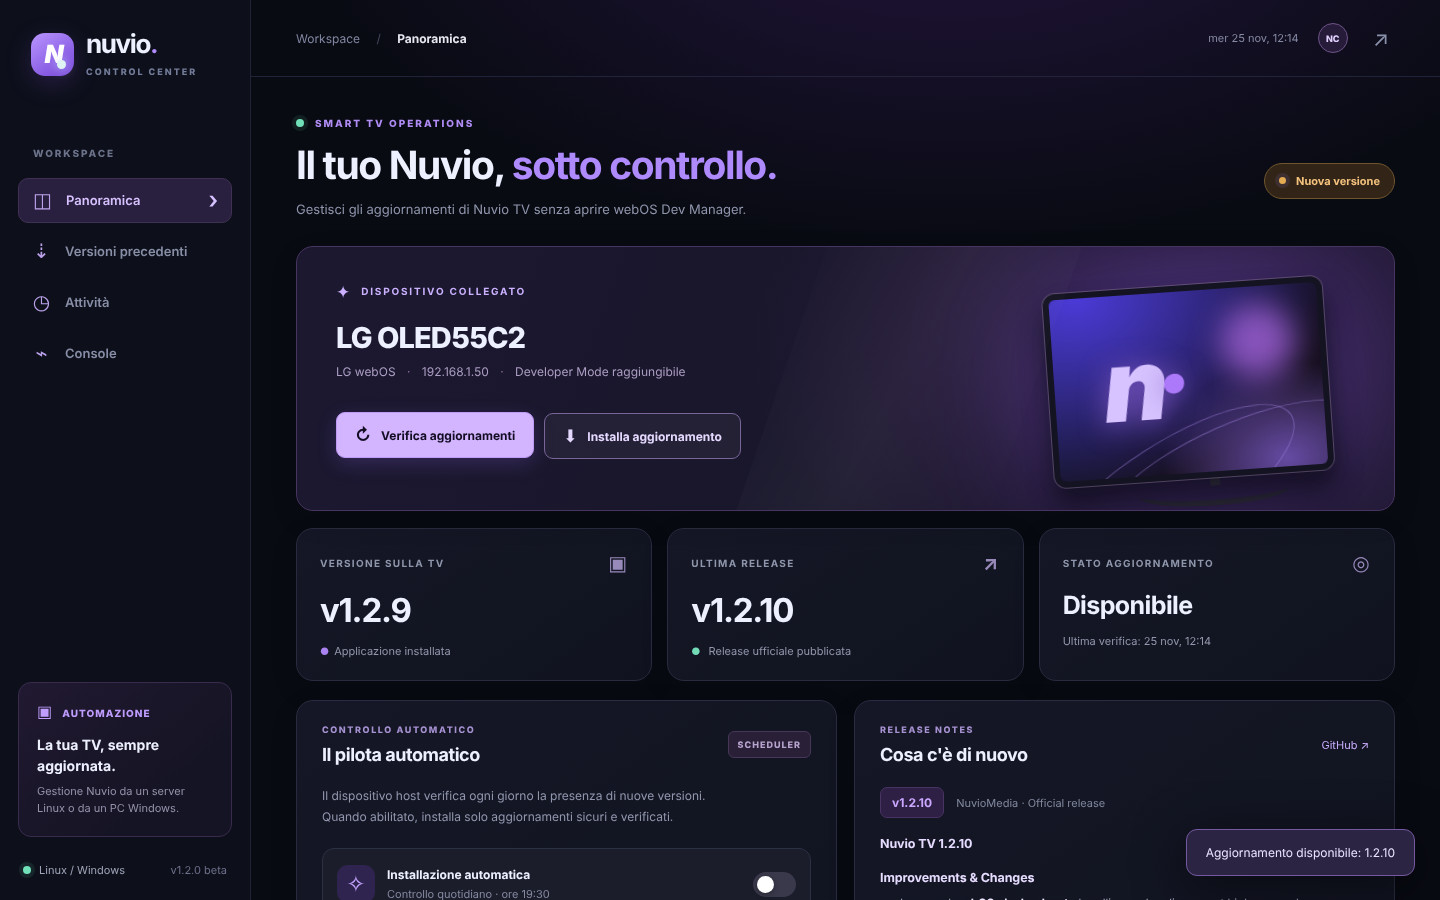
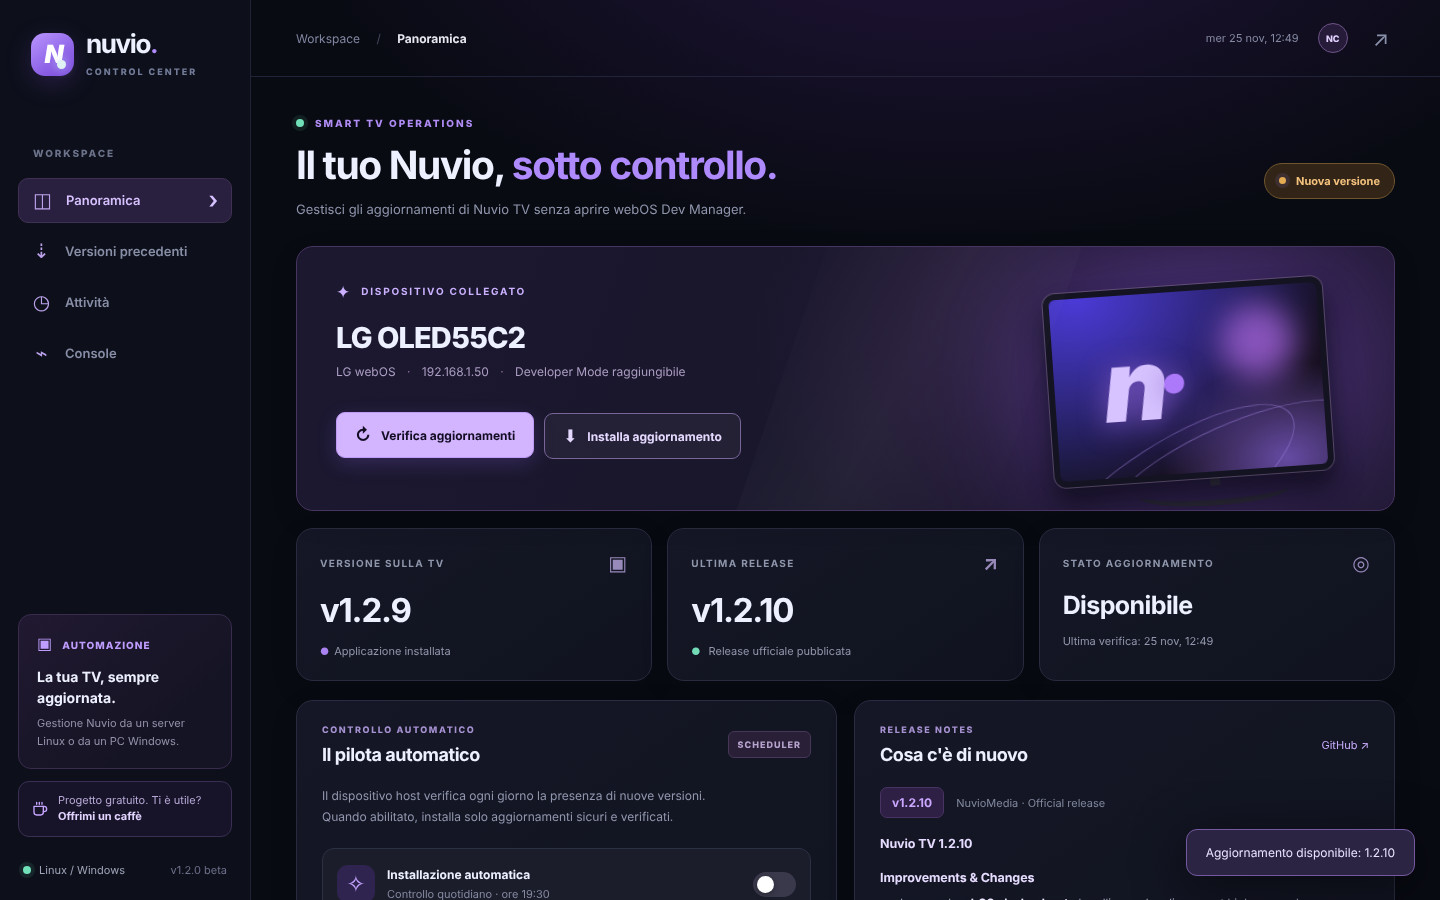
Make voluntary support more visible: dashboard, installers, releases, issues
- Dashboard: discreet Ko-fi card under the sidebar panel and a footer link
- Linux and Windows installers print the Ko-fi link at the end
- Release notes start with a support line; issue chooser lists Ko-fi
- README: support callout after the quick starts; screenshots refreshed

Claude-Session: https://claude.ai/code/session_01KBUAtK3HWagceCcF7kxorD

Changed region(s): [[0.0, 0.7156, 0.125, 0.9333], [0.8438, 0.0311, 0.9062, 0.0622]]

diff --git a/web/dashboard.html b/web/dashboard.html
@@ -8,7 +8,7 @@
   <a class="nav-item" href="#versions" data-section="versions"><span class="nav-symbol">⇣</span> Versioni precedenti</a>
   <a class="nav-item" href="#activity" data-section="activity"><span class="nav-symbol">◷</span> Attività</a>
   <a class="nav-item" href="#console" data-section="console"><span class="nav-symbol">⌁</span> Console</a>
-  <div class="side-bottom"><div class="side-panel"><div class="side-panel-header"><span class="mini-icon">▣</span> AUTOMAZIONE</div><strong>La tua TV, sempre aggiornata.</strong><p>Gestione Nuvio da un server Linux o da un PC Windows.</p></div><div class="side-footer"><span class="dot-online"></span> Linux / Windows <span class="muted">v1.2.0 beta</span></div></div>
+  <div class="side-bottom"><div class="side-panel"><div class="side-panel-header"><span class="mini-icon">▣</span> AUTOMAZIONE</div><strong>La tua TV, sempre aggiornata.</strong><p>Gestione Nuvio da un server Linux o da un PC Windows.</p></div><a class="side-support" href="https://ko-fi.com/lucairr" target="_blank" rel="noopener noreferrer"><svg width="16" height="16" viewBox="0 0 24 24" fill="none" stroke="currentColor" stroke-width="2" stroke-linecap="round" stroke-linejoin="round" aria-hidden="true"><path d="M17 8h1a4 4 0 0 1 0 8h-1"></path><path d="M3 8h14v9a4 4 0 0 1-4 4H7a4 4 0 0 1-4-4Z"></path><path d="M7 2v3M11 2v3M15 2v3"></path></svg><span>Progetto gratuito. Ti è utile? <b>Offrimi un caffè</b></span></a><div class="side-footer"><span class="dot-online"></span> Linux / Windows <span class="muted">v1.2.0 beta</span></div></div>
 </aside>
 <main class="main">
   <header class="topbar"><div class="crumb">Workspace <span>/</span> <b>Panoramica</b></div><div class="top-right"><span class="today" id="clock">—</span><span class="profile-dot">NC</span><button id="logout" class="icon-btn" title="Esci">↗</button></div></header>
@@ -54,7 +54,7 @@
     </section>
     <section class="panel timeline" id="activity"><div class="panel-header"><div><div class="small-overline">EVENTI RECENTI</div><h2>Cronologia attività</h2></div><span class="small-chip">ULTIMI 30</span></div><div class="activity-list" id="activity-list"><div class="empty">Nessuna operazione eseguita.</div></div></section>
     <section class="panel advanced" id="console"><div class="panel-header"><div><div class="small-overline">DIAGNOSTICA</div><h2>Console e comandi</h2></div><span class="small-chip">LIVE LOGS</span></div><div class="advanced-top"><div><strong>Reinstallazione manuale</strong><p>Reinstalla l'IPK ufficiale più recente anche se la versione installata è già aggiornata. Non disinstalla l'app.</p></div><button class="danger-btn" id="force-btn">Forza installazione ↗</button></div><div class="console-box"><div class="console-head"><span class="term-dots"><i></i><i></i><i></i></span><span>nuvio-updater / system.log</span><span class="console-live">● LIVE</span></div><div class="console-log" id="console-log"><div class="empty">In attesa di eventi…</div></div></div></section>
-    <footer>NUVIO CONTROL CENTER <span>•</span> Un progetto locale per LG webOS <span>•</span> Fonte: NuvioMedia/NuvioTVSmart</footer>
+    <footer>NUVIO CONTROL CENTER <span>•</span> Un progetto locale per LG webOS <span>•</span> Fonte: NuvioMedia/NuvioTVSmart <span>•</span> <a class="support-link" href="https://ko-fi.com/lucairr" target="_blank" rel="noopener noreferrer">Ti è utile? Offrimi un caffè</a></footer>
   </div>
 </main>
 </div>

diff --git a/web/style.css b/web/style.css
@@ -86,3 +86,11 @@
  .toast{left:12px;right:12px;max-width:none;top:12px;bottom:auto;transform:translateY(-16px)}
  .toast.show{transform:none}
 }
+
+/* ---- support link (voluntary, never blocks anything) ---- */
+.side-support{display:flex;align-items:center;gap:10px;margin-top:12px;padding:11px 13px;border-radius:11px;border:1px solid #3a2f52;background:#17142a;color:#b9a9d6;font-size:11px;line-height:1.45;transition:background .15s,border-color .15s}
+.side-support svg{flex:0 0 16px;color:#c6a5ff}
+.side-support b{color:#e3d4ff;font-weight:700}
+.side-support:hover{background:#211a38;border-color:#5a4380}
+footer .support-link{color:#a98ae6;text-decoration:underline;text-underline-offset:2px}
+footer .support-link:hover{color:#cbb1ff}

diff --git a/README.md b/README.md
@@ -70,6 +70,8 @@ No admin rights needed: the LG CLI is installed for your user, Task Scheduler st
 
 **No `.exe` is included.** The Windows installer is a PowerShell script; it needs local Python and Node.js.
 
+> **Like it?** Nuvio Control Center is free and stays free. If it saves you a trip to Dev Manager at every release, [buy me a coffee on Ko-fi](https://ko-fi.com/lucairr) ☕ - it funds testing on more TVs and new features.
+
 ## Manual downgrade: Versions history
 
 Open the dashboard, run **Verifica aggiornamenti** to identify the installed version, then open **Versioni precedenti → Carica release**, select an older eligible official stable IPK and explicitly confirm. The app verifies the download's package ID and version before invoking `ares-install`. It does not uninstall Nuvio. On a requested downgrade the system disables the automatic-install switch so the old version isn't replaced the next evening. If LG refuses the older package, the app stops and records the error; user settings may still be incompatible with an older Nuvio. **Back up settings first where possible.**
